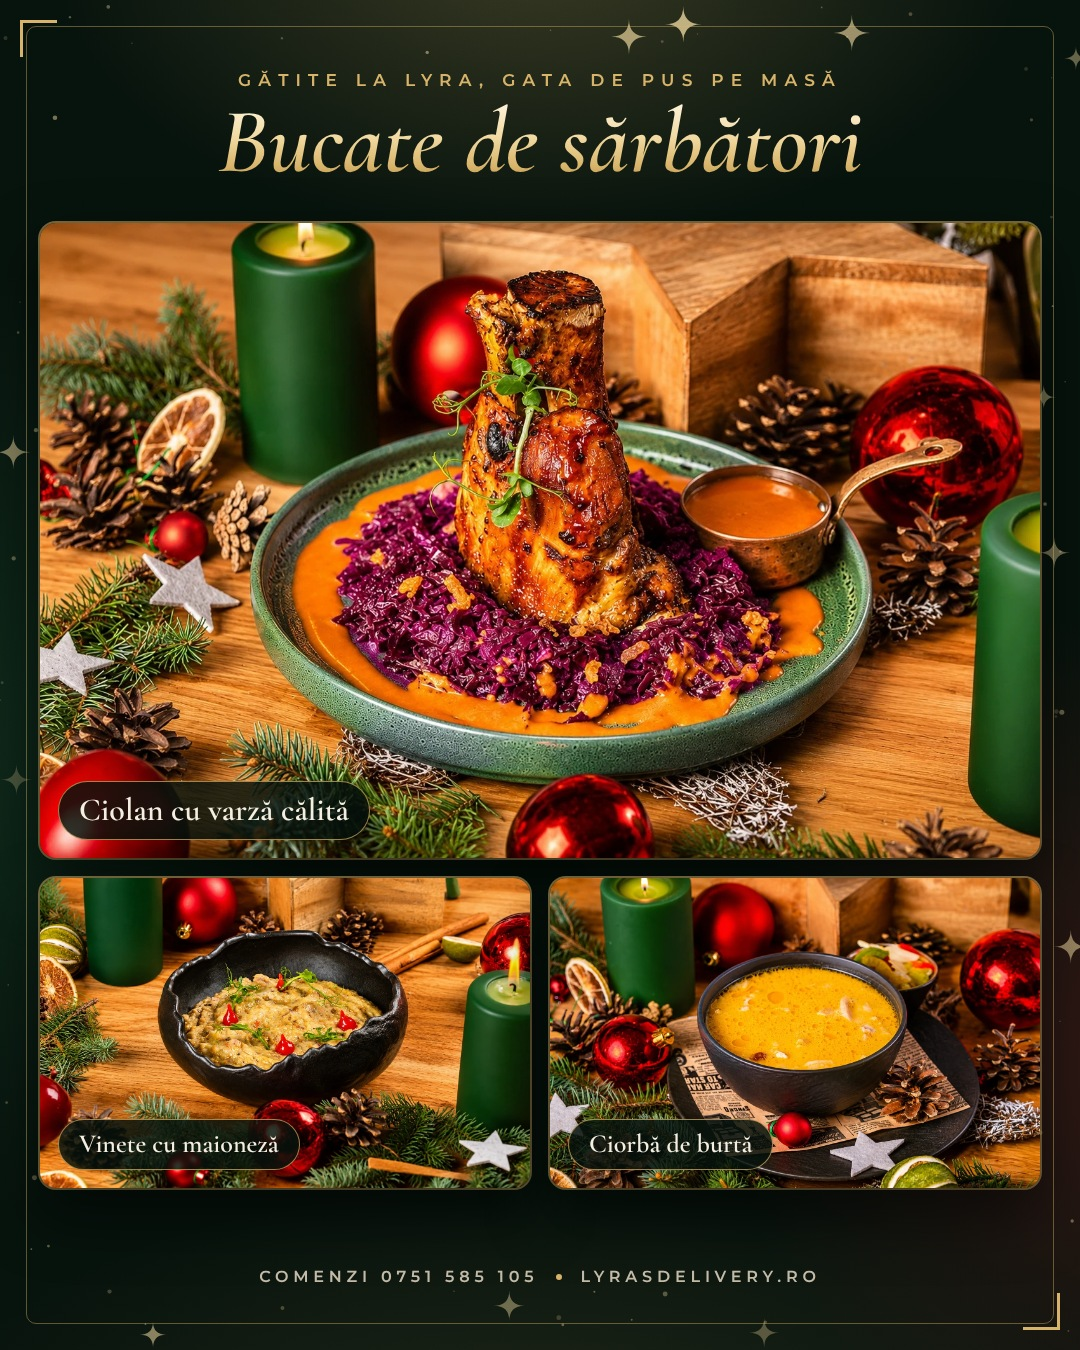
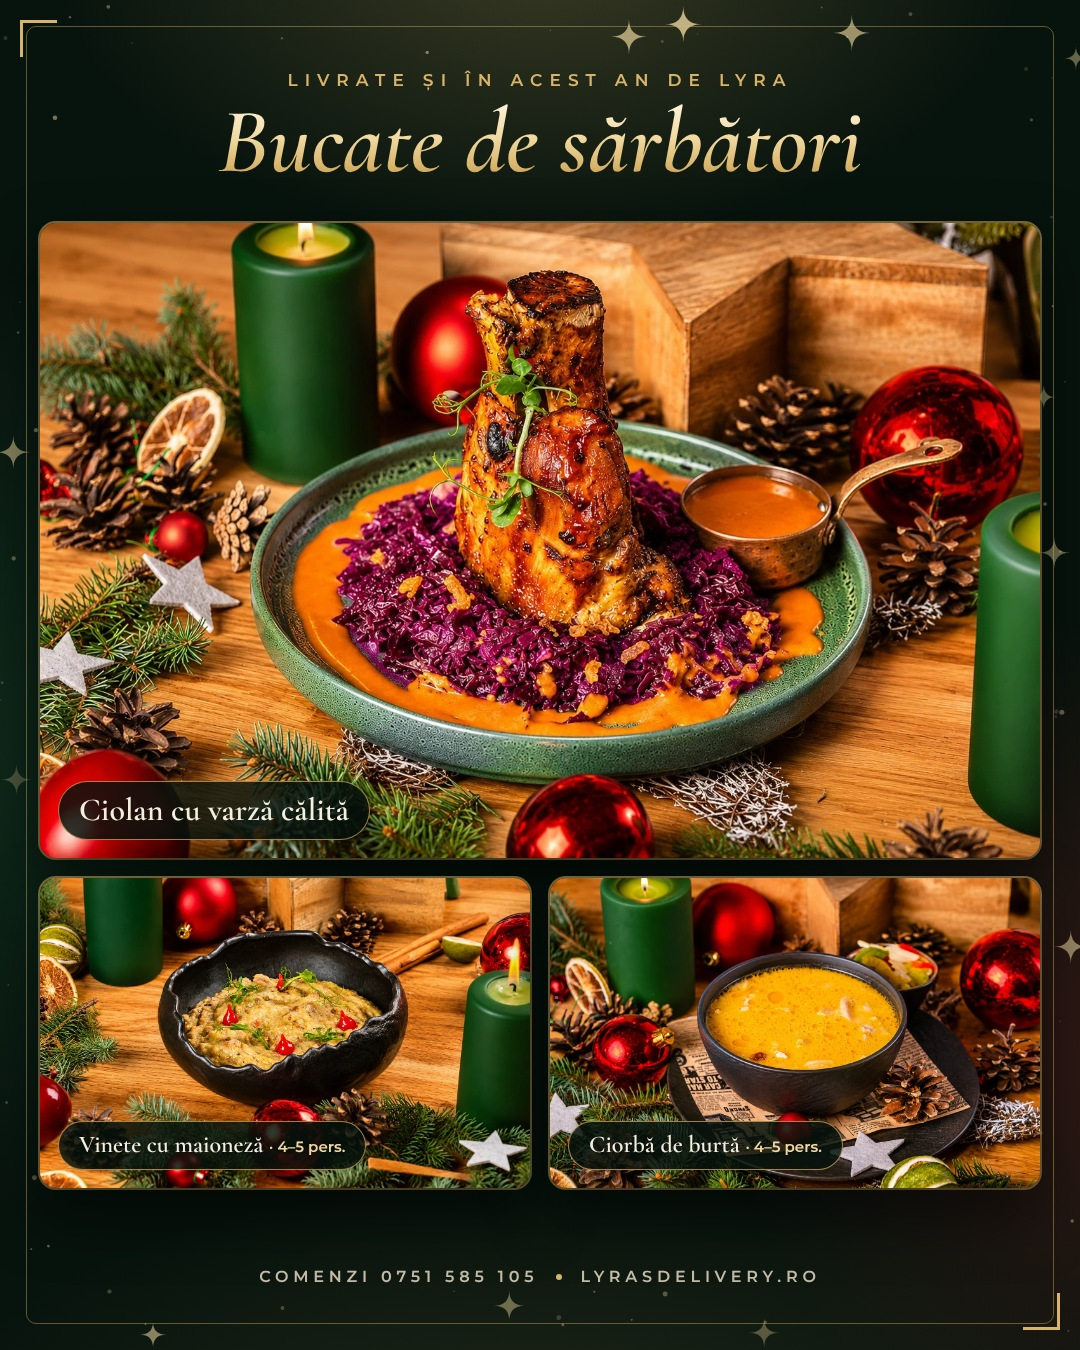
Holiday posts: portions on dishes post, refreshed captions (no discounts)
Claude-Session: https://claude.ai/code/session_01YWqoAEnZfgrNzbfTc6BtjY

diff --git a/lyra/social/sarbatori.html b/lyra/social/sarbatori.html
@@ -286,12 +286,12 @@ h1{font-family:var(--serif);font-style:italic;font-weight:600;font-size:104px;li
 <!-- 4 · Bucate de sărbători -->
 <section class="post xmas" data-out="lyra-craciun-4-bucate.jpg" style="padding-top:70px">
   <svg class="spark" viewBox="0 0 1080 1350"></svg>
-  <div class="kicker" style="margin-top:0">Gătite la Lyra, gata de pus pe masă</div>
+  <div class="kicker" style="margin-top:0">Livrate și în acest an de Lyra</div>
   <h1 class="gold" style="font-size:92px">Bucate de sărbători</h1>
   <div class="dgrid">
     <div class="ph wide"><img src="../sarbatori/ciolan-varza.jpg"><span class="name">Ciolan cu varză călită</span></div>
-    <div class="ph sm"><img src="../sarbatori/vinete.jpg"><span class="name" style="font-size:26px">Vinete cu maioneză</span></div>
-    <div class="ph sm"><img src="../sarbatori/ciorba-burta.jpg"><span class="name" style="font-size:26px">Ciorbă de burtă</span></div>
+    <div class="ph sm"><img src="../sarbatori/vinete.jpg"><span class="name" style="font-size:24px">Vinete cu maioneză <small style="font-family:var(--sans);font-size:15px;color:var(--gold2)">· 4–5 pers.</small></span></div>
+    <div class="ph sm"><img src="../sarbatori/ciorba-burta.jpg"><span class="name" style="font-size:24px">Ciorbă de burtă <small style="font-family:var(--sans);font-size:15px;color:var(--gold2)">· 4–5 pers.</small></span></div>
   </div>
   <div class="foot">Comenzi 0751 585 105<i></i>lyrasdelivery.ro</div>
   <div class="frame"></div>
